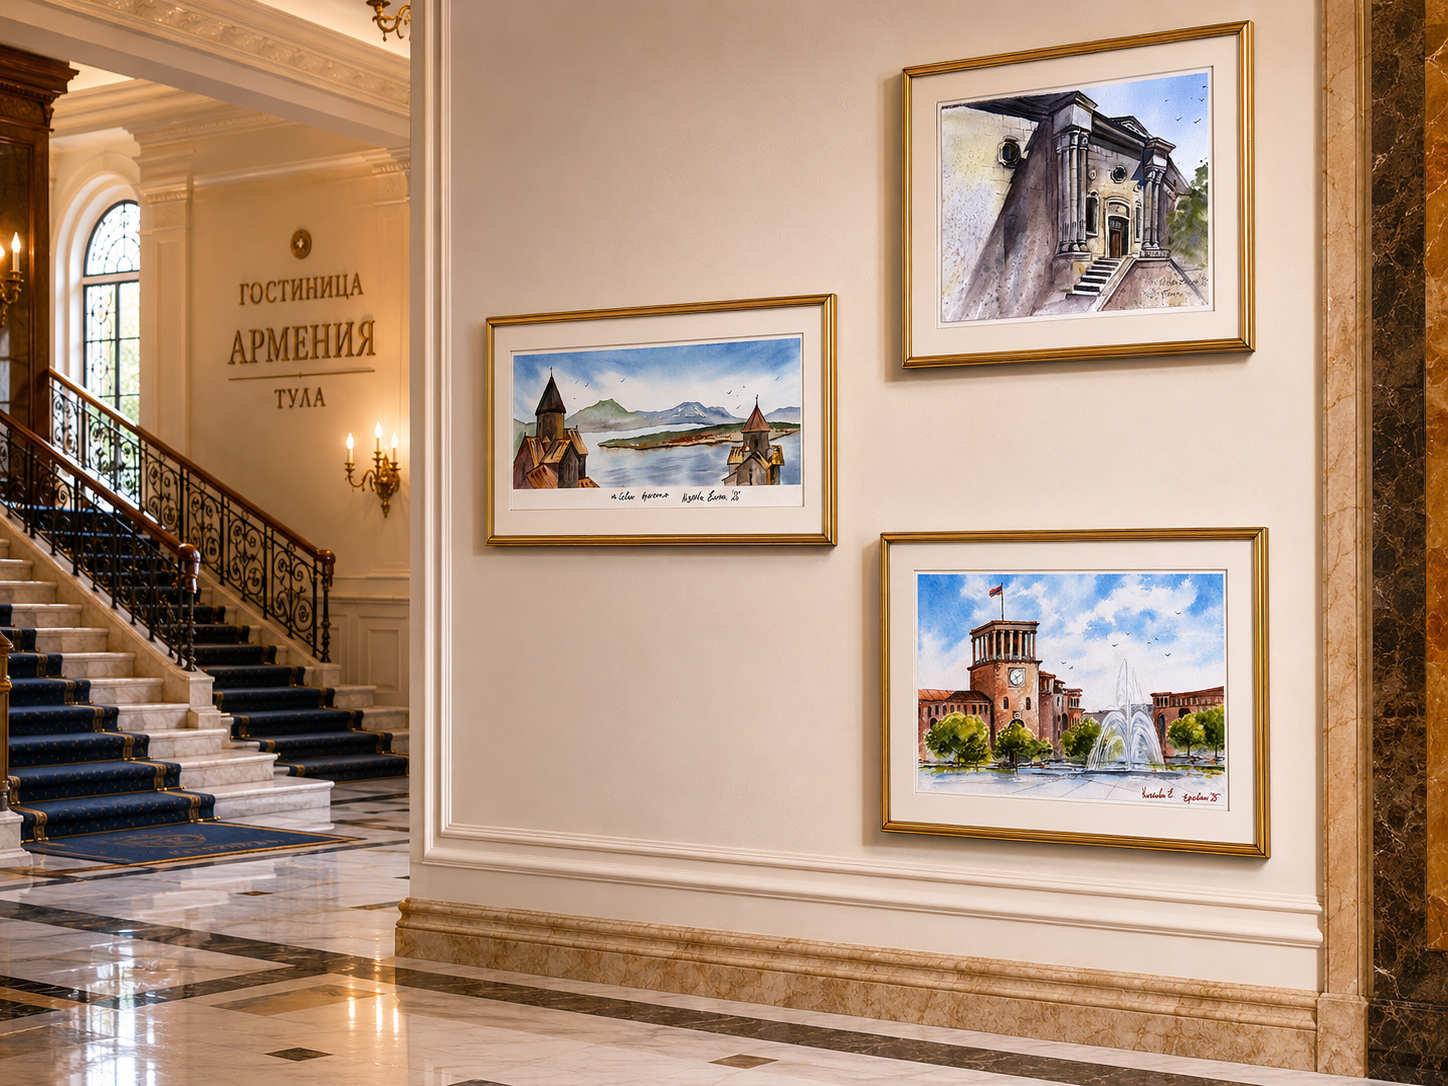
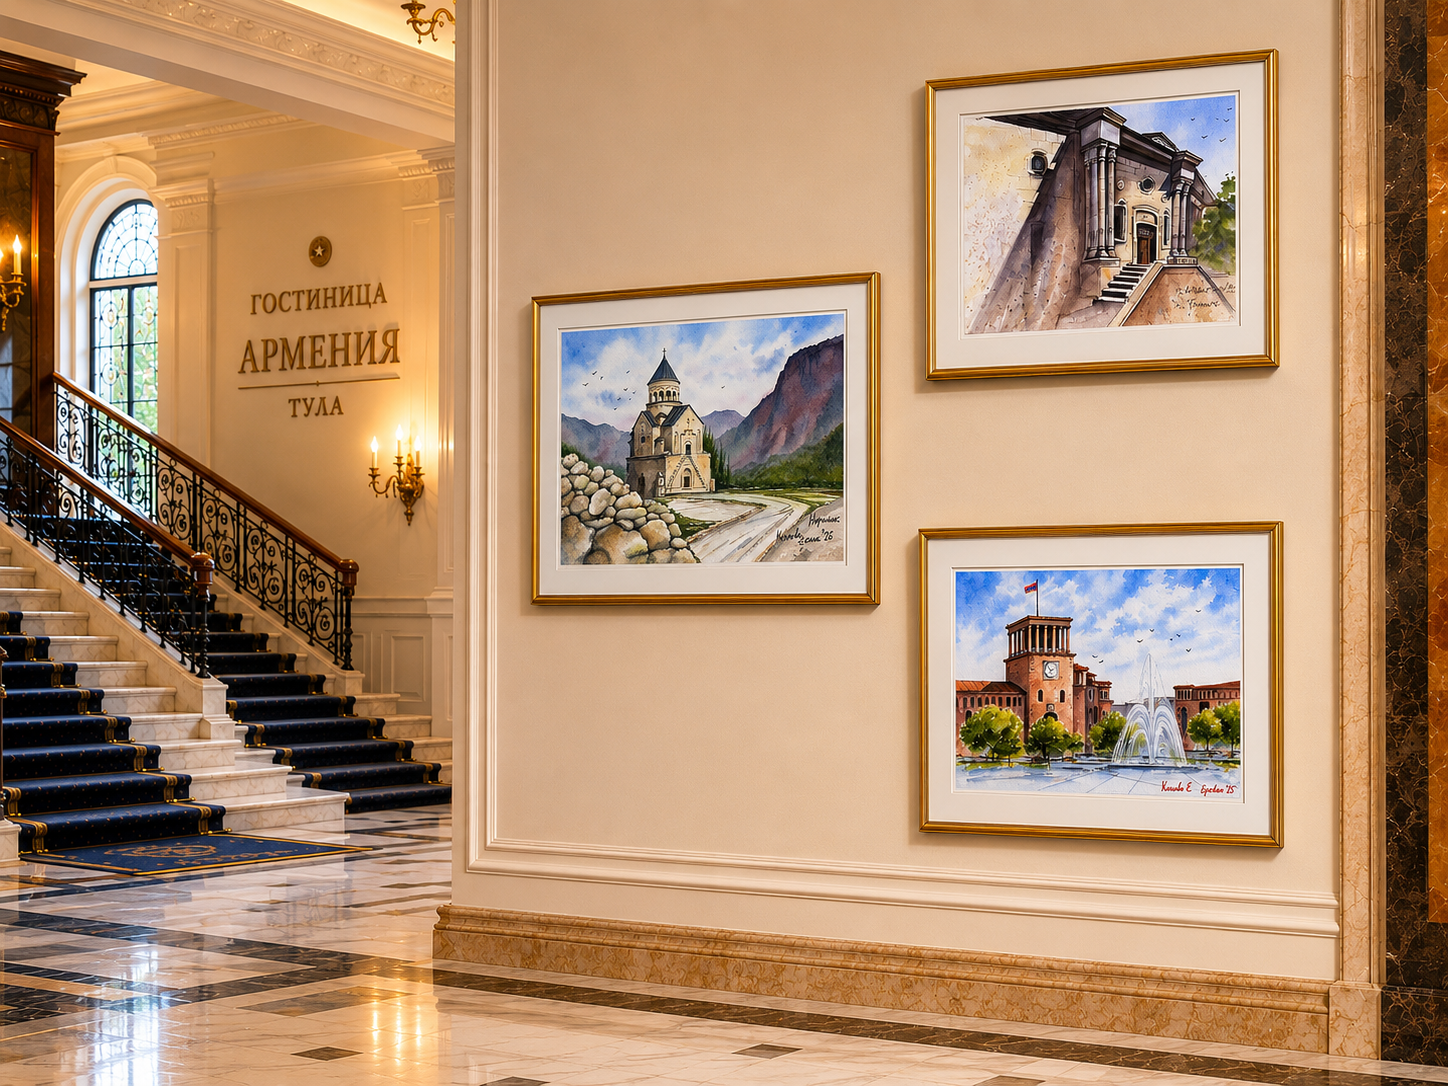
/collaboration: горизонтальный мокап Армения + заголовок процесса
- mockup-armenia.png: вертикальный кадр Армения (фото 7) заменён на
  горизонтальный (фото 3) — лучше совпадает по пропорциям с другими
  тремя мокапами, сетка 2×2 теперь ровная по высоте
- Заголовок секции «Простой процесс» → «От идеи до работы в интерьере»
  (RU). EN: «A simple process» → «From idea to artwork in the space»

diff --git a/src/routes/collaboration.tsx b/src/routes/collaboration.tsx
@@ -84,7 +84,7 @@ function CollaborationPage() {
       ],
 
       processKicker: "Как работаем",
-      processTitle: "Простой процесс",
+      processTitle: "От идеи до работы в интерьере",
       process: [
         { n: "01", title: "Расскажите про пространство", desc: "Пара фото, размер стены, какое ощущение хотите. В Telegram, MAX или на почту." },
         { n: "02", title: "Подбираю", desc: "3–5 работ под формат и стилистику пространства. Присылаю на согласование с предварительной ценой." },
@@ -131,7 +131,7 @@ function CollaborationPage() {
       ],
 
       processKicker: "How it works",
-      processTitle: "A simple process",
+      processTitle: "From idea to artwork in the space",
       process: [
         { n: "01", title: "Tell me about the space", desc: "A couple of photos, wall size, the feeling you’re after. On Telegram, MAX or email." },
         { n: "02", title: "I put together a selection", desc: "3–5 works that fit the format and the mood, sent over for approval with a preliminary quote." },
